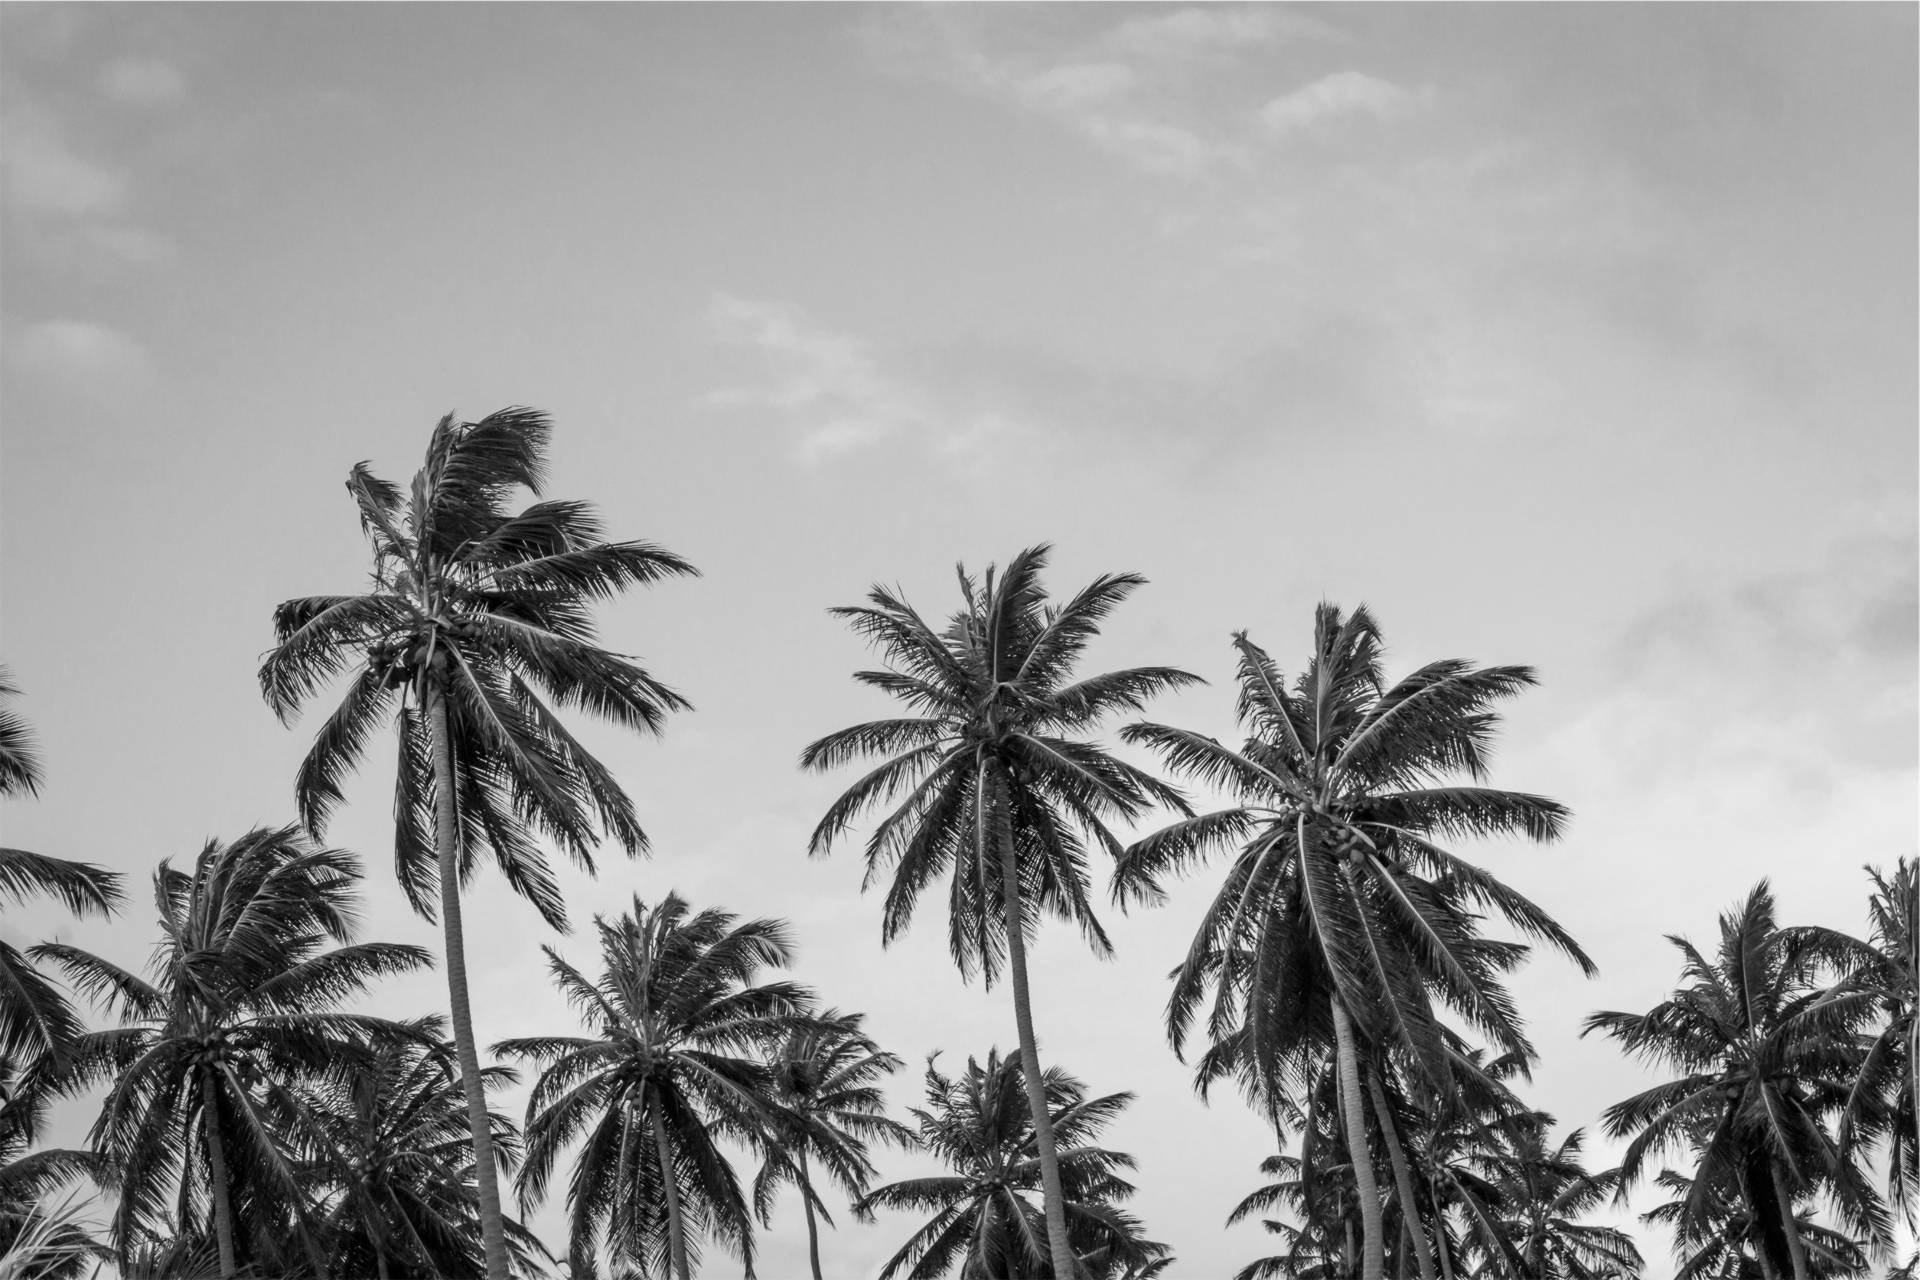
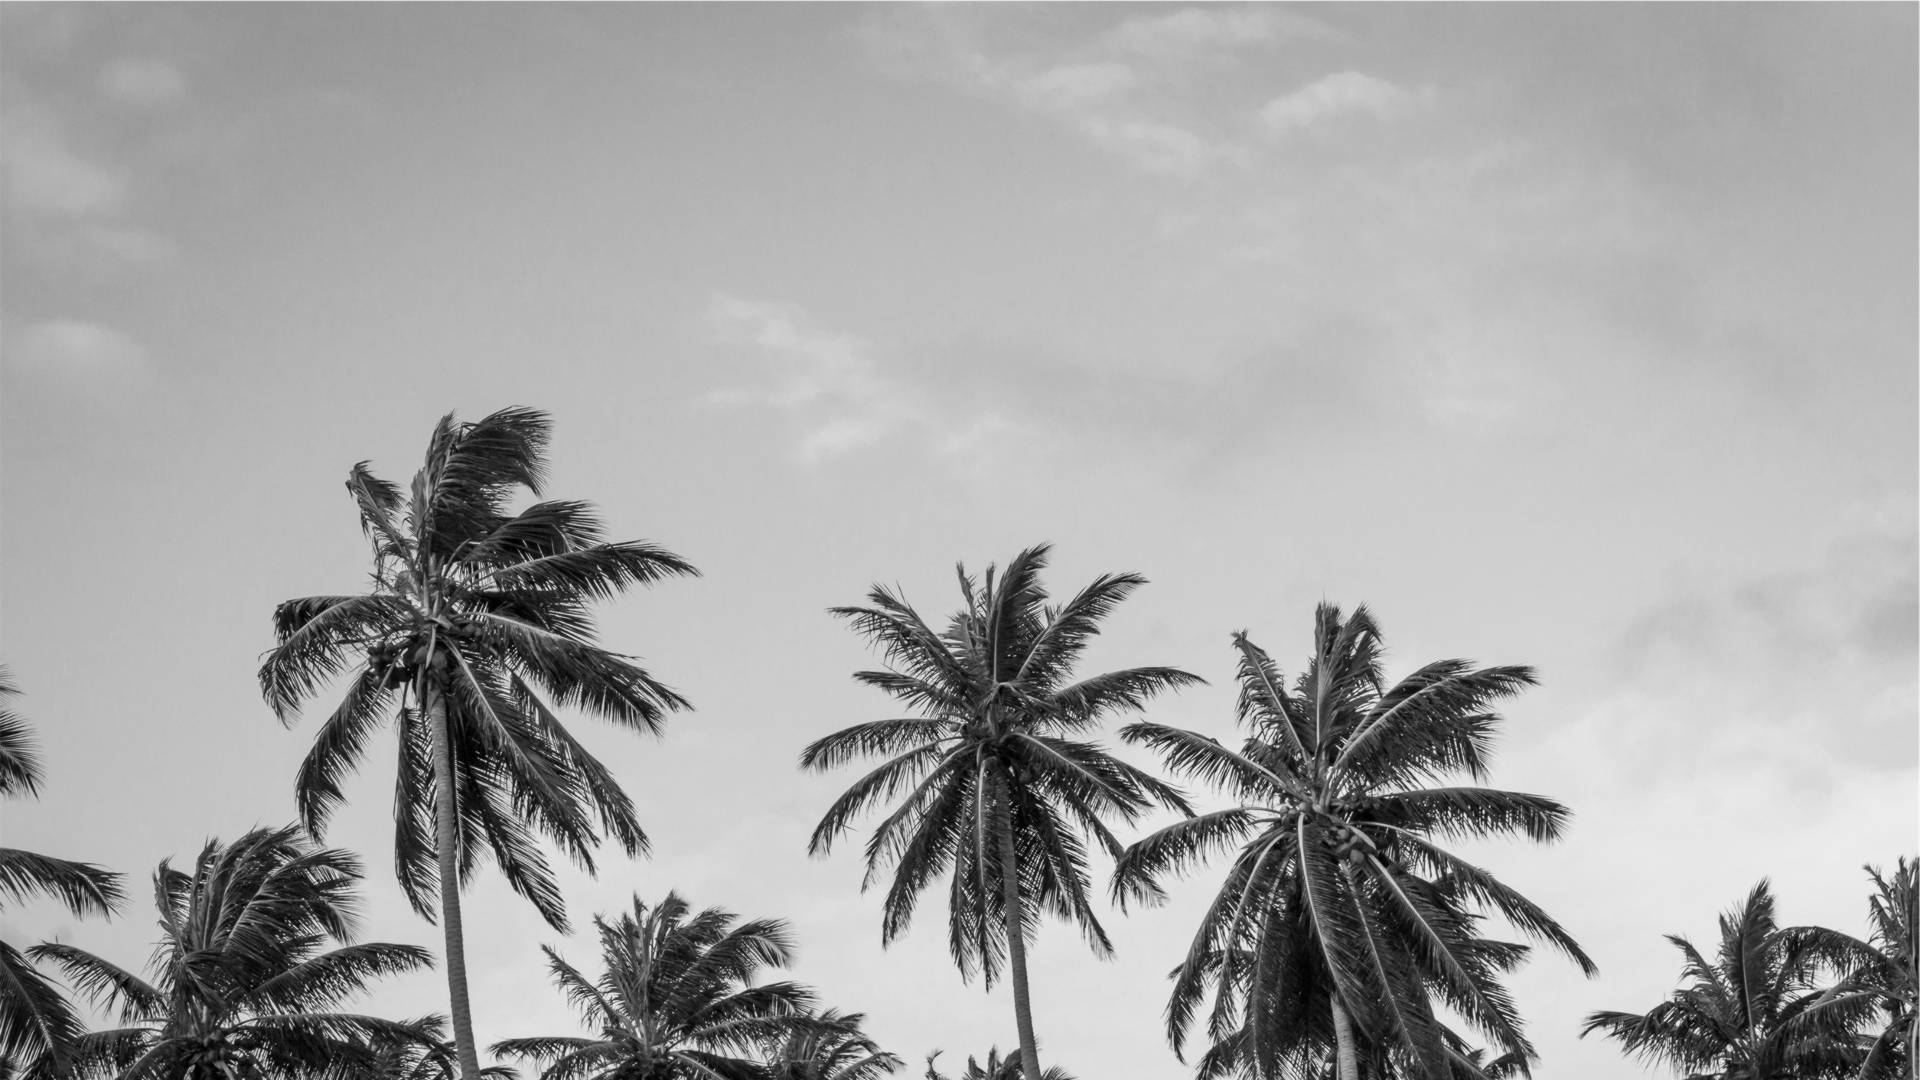
Finished Home page. Changed background picture size to 1920x1080 and fixed the background position. Added link to Google Font 'Lato'

diff --git a/css/main.css b/css/main.css
@@ -7862,7 +7862,7 @@ button.close {
   display: block;
   text-align: center;
   font-size: 20px;
-  font-weight: 100;
+  font-weight: 300;
 }
 
 /* line 22, ../scss/main.scss */
@@ -7886,16 +7886,15 @@ button.close {
 body {
   background-image: url("../assets/images/home_background.jpg");
   background-repeat: no-repeat;
-  -webkit-background-size: cover;
-  -moz-background-size: cover;
-  -o-background-size: cover;
-  background-size: cover;
+  background-attachment: fixed;
+  background-position: 50% 0%;
+  font-family: 'Lato', sans-serif;
 }
 
 /*********************/
 /* all PHP pages CSS */
 /*********************/
-/* line 51, ../scss/main.scss */
+/* line 50, ../scss/main.scss */
 .content {
   padding-left: 15px;
   padding-right: 15px;
@@ -7904,27 +7903,28 @@ body {
 /****************/
 /* home.php CSS */
 /****************/
-/* line 61, ../scss/main.scss */
-.welcome h1 {
+/* line 59, ../scss/main.scss */
+.home-content {
+  margin: auto;
+  text-align: center;
+  padding-top: 50px;
+}
+/* line 64, ../scss/main.scss */
+.home-content .name {
+  font-weight: 100;
+  font-size: 40px;
+}
+/* line 69, ../scss/main.scss */
+.home-content .title {
+  font-weight: 700;
+  font-size: 60px;
+}
+/* line 74, ../scss/main.scss */
+.home-content .hobbies {
   font-size: 50px;
-  padding-left: 20px;
-  margin-bottom: 20px;
-}
-/* line 67, ../scss/main.scss */
-.welcome p {
-  line-height: 1.5;
-  margin-bottom: 0px;
-  text-align: justify;
-  font-size: 16px;
 }
 
-/* line 75, ../scss/main.scss */
-.separator {
-  padding-top: 40px;
-  padding-bottom: 40px;
-}
-
-/* line 80, ../scss/main.scss */
+/* line 79, ../scss/main.scss */
 hr {
   border: 0;
   height: 1px;
@@ -7932,62 +7932,4 @@ hr {
   background-image: -moz-linear-gradient(left, rgba(0, 0, 0, 0), rgba(0, 0, 0, 0.75), rgba(0, 0, 0, 0));
   background-image: -ms-linear-gradient(left, rgba(0, 0, 0, 0), rgba(0, 0, 0, 0.75), rgba(0, 0, 0, 0));
   background-image: -o-linear-gradient(left, rgba(0, 0, 0, 0), rgba(0, 0, 0, 0.75), rgba(0, 0, 0, 0));
-}
-
-/* line 90, ../scss/main.scss */
-.columns-div .info-column {
-  float: left;
-  position: relative;
-}
-@media (min-width: 768px) {
-  /* line 90, ../scss/main.scss */
-  .columns-div .info-column {
-    width: 240px;
-  }
-}
-@media (min-width: 992px) {
-  /* line 90, ../scss/main.scss */
-  .columns-div .info-column {
-    width: 313.33333px;
-  }
-}
-@media (min-width: 1200px) {
-  /* line 90, ../scss/main.scss */
-  .columns-div .info-column {
-    width: 380px;
-  }
-}
-/* line 104, ../scss/main.scss */
-.columns-div .info-column .info-column-content {
-  width: 200px;
-}
-@media (min-width: 768px) {
-  /* line 104, ../scss/main.scss */
-  .columns-div .info-column .info-column-content {
-    margin-left: 20px;
-    margin-right: 20px;
-  }
-}
-@media (min-width: 992px) {
-  /* line 104, ../scss/main.scss */
-  .columns-div .info-column .info-column-content {
-    margin-left: 56.66667px;
-    margin-right: 56.66667px;
-  }
-}
-@media (min-width: 1200px) {
-  /* line 104, ../scss/main.scss */
-  .columns-div .info-column .info-column-content {
-    margin-left: 90px;
-    margin-right: 90px;
-  }
-}
-/* line 120, ../scss/main.scss */
-.columns-div .info-column .info-column-content h3 {
-  text-align: center;
-}
-/* line 124, ../scss/main.scss */
-.columns-div .info-column .info-column-content p {
-  margin-top: 10px;
-  text-align: justify;
 }

diff --git a/scss/main.scss b/scss/main.scss
@@ -16,7 +16,7 @@
 	display: block;
 	text-align: center;
 	font-size: 20px;
-	font-weight: 100;
+	font-weight: 300;
 }
 
 .top-container {
@@ -36,10 +36,9 @@
 body {
 	background-image: url("../assets/images/home_background.jpg");
 	background-repeat: no-repeat;
-	-webkit-background-size: cover;
-	-moz-background-size: cover;
-	-o-background-size: cover;
-	background-size: cover;
+	background-attachment: fixed;
+	background-position: 50% 0%;
+	font-family: 'Lato', sans-serif;
 }
 
 /*********************/
@@ -57,24 +56,24 @@ $inner-padding: 15px;
 /* home.php CSS */
 /****************/
 
-.welcome {
-	h1 {
+.home-content {
+	margin: auto;
+	text-align: center;
+	padding-top: 50px;
+
+	.name {
+		font-weight: 100;
+		font-size: 40px;
+	}
+
+	.title {
+		font-weight: 700;
+		font-size: 60px;
+	}
+
+	.hobbies {
 		font-size: 50px;
-		padding-left: 20px;
-		margin-bottom: 20px;
 	}
-
-	p {
-		line-height: 1.5;
-		margin-bottom: 0px;
-		text-align: justify;
-		font-size: 16px;
-	}
-}
-
-.separator {
-	padding-top: 40px;
-	padding-bottom: 40px;
 }
 
 hr {
@@ -84,47 +83,4 @@ hr {
     background-image:    -moz-linear-gradient(left, rgba(0,0,0,0), rgba(0,0,0,0.75), rgba(0,0,0,0));
     background-image:     -ms-linear-gradient(left, rgba(0,0,0,0), rgba(0,0,0,0.75), rgba(0,0,0,0));
     background-image:      -o-linear-gradient(left, rgba(0,0,0,0), rgba(0,0,0,0.75), rgba(0,0,0,0));
-}
-
-.columns-div {
-	.info-column {
-		float: left;
-		position: relative;
-
-		@media (min-width: $screen-sm-min) {
-			width: $info-column-width-sm;
-		}
-		@media (min-width: $screen-md-min) {
-			width: $info-column-width-md;
-		}
-		@media (min-width: $screen-lg-min) {
-			width: $info-column-width-lg;
-		}
-
-		.info-column-content {
-			width: $column-width;
-
-			@media (min-width: $screen-sm-min) {
-				margin-left: $column-content-margin-sm;
-				margin-right: $column-content-margin-sm;
-			}
-			@media (min-width: $screen-md-min) {
-				margin-left: $column-content-margin-md;
-				margin-right: $column-content-margin-md;
-			}
-			@media (min-width: $screen-lg-min) {
-				margin-left: $column-content-margin-lg;
-				margin-right: $column-content-margin-lg;
-			}
-
-			h3 {
-				text-align: center;
-			}
-
-			p {
-				margin-top: 10px;
-				text-align: justify;
-			}
-		}
-	}
 }

diff --git a/index.php b/index.php
@@ -6,7 +6,8 @@
 	<meta name="author" content="Lucas McLaughlin"/>
 	<meta charset="UTF-8"/>
 
-	<link rel="stylesheet" href="css/main.css">
+	<link href='http://fonts.googleapis.com/css?family=Lato:300,400,900' rel='stylesheet' type='text/css' />
+	<link rel="stylesheet" href="css/main.css" />
 </head>
 
 <body>

diff --git a/home.php b/home.php
@@ -1,3 +1,5 @@
-<div class="content name">
-	
+<div class="home-content">
+	<p class="name">Lucas</p>
+	<p class="title">Web and software developer</p>
+	<p class="hobbies">Musician and artist</p>
 </div>
